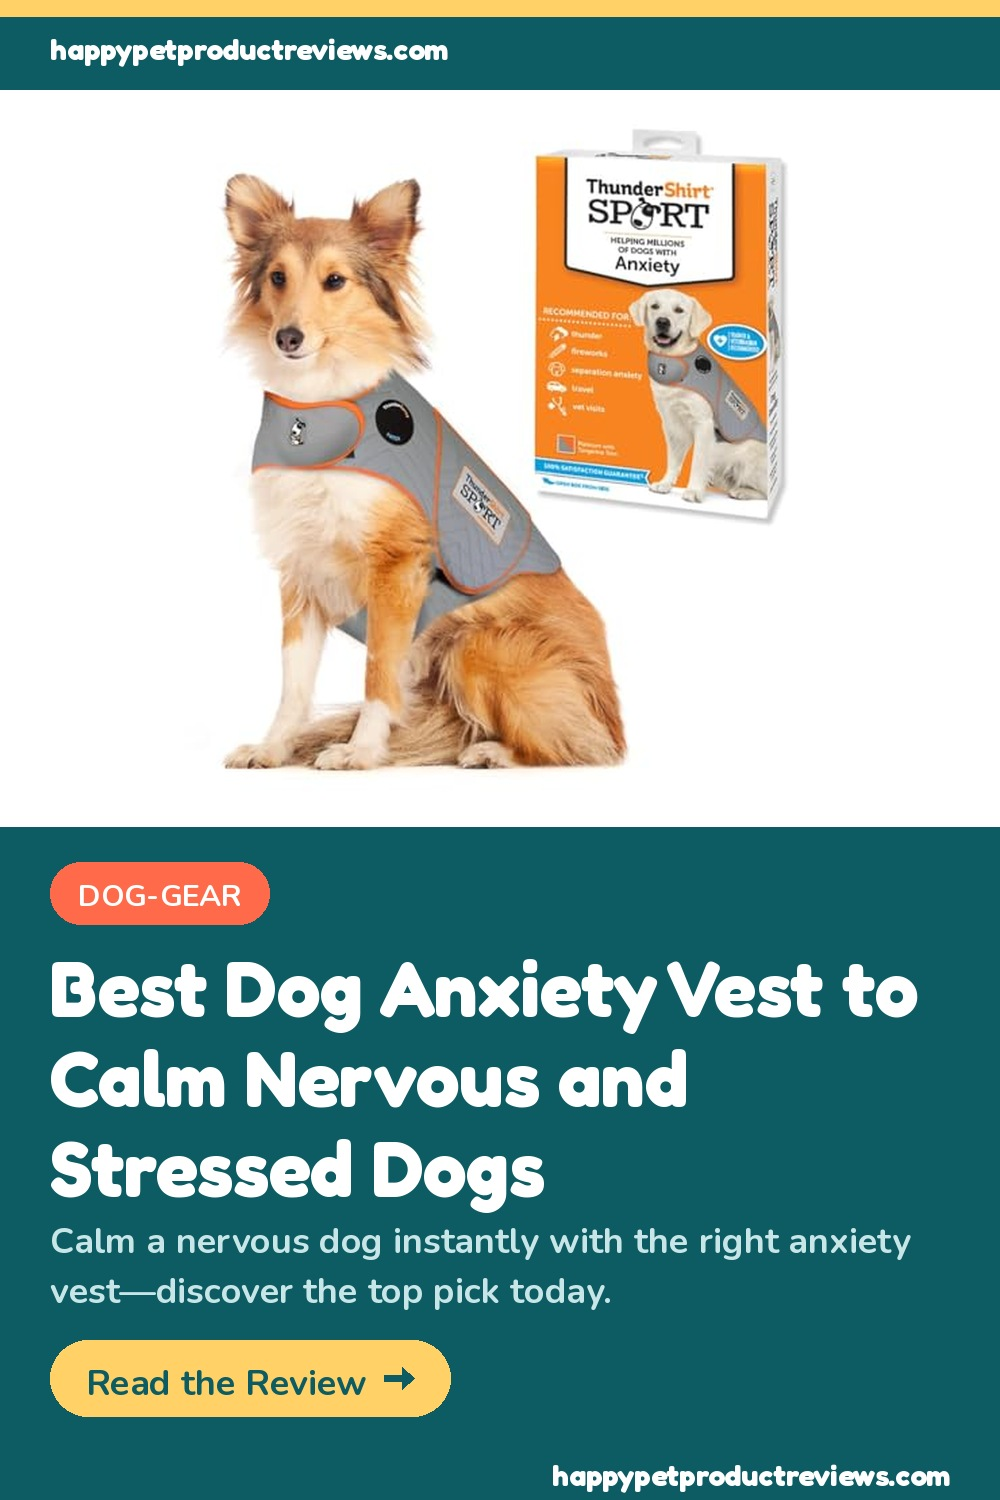
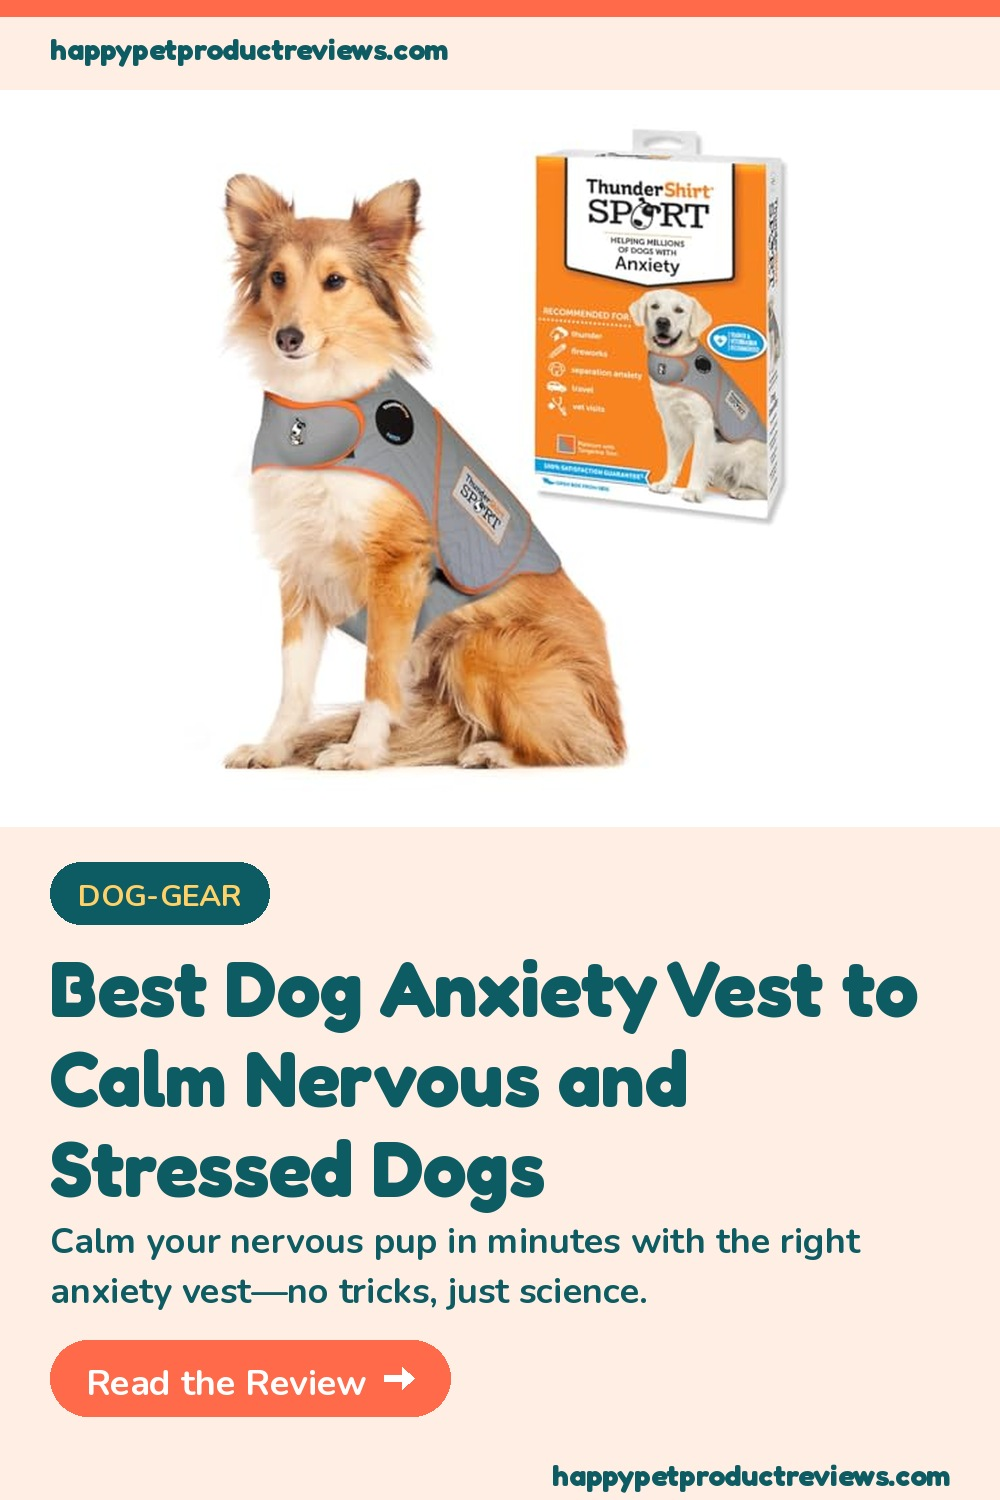
auto: stage generated files 2026-04-27

diff --git a/_posts/DRAFT-best-dog-anxiety-vest.md b/_posts/DRAFT-best-dog-anxiety-vest.md
@@ -1,0 +1,87 @@
+---
+layout: post
+title: "Best Dog Anxiety Vest to Calm Nervous and Stressed Dogs"
+date: 2026-04-27
+categories: [dog-gear]
+species: dog
+tags: [best dog anxiety vest]
+description: "Calm your nervous pup in minutes with the right anxiety vest—no tricks, just science."
+affiliate_url: "https://amzn.to/4tkpcTm"
+image: "https://images-na.ssl-images-amazon.com/images/P/B01FN4GW2M.01.LZZZZZZZ.jpg"
+pin_image: "https://happypetproductreviews.com/assets/images/pins/best-dog-anxiety-vest.jpg?v=20260427"
+---
+
+
+---
+
+When the thunder rolls in or fireworks light up the night sky, my golden retriever, Max, curls up in a tight ball, ears flattened and eyes wide with fear. I’ve tried soothing music, extra treats, even a snug blanket, but nothing seemed to ease his panic until we tried a compression vest. The gentle, constant pressure acted like a reassuring hug, and within minutes Max’s shaking subsided. If you’ve watched a beloved dog tremble during storms, vet visits, or separation, you know how heartbreaking it can be. The good news? A well‑designed anxiety vest can make a world of difference, and you don’t have to break the bank to get one. Below, we’ve rounded up the best dog anxiety vest options, starting with the top performer that earned its spot in countless dog owners’ homes.
+
+## Quick Picks
+
+### Featured Pick: [ThunderShirt for Dogs, Large, Platinum Sport - Dog Anxiety Relief Calming Vest](https://amzn.to/4tkpcTm)
+
+With a solid 4.3‑star rating on Amazon, the ThunderShirt has become a go‑to for large‑breed pups who need calm during stressful events. Owners often note that the snug, evenly‑distributed pressure mimics a comforting hug, which can lessen cortisol spikes and promote relaxation. The vest is machine‑washable, has a quick‑release buckle for easy on/off, and comes in a range of sizes to ensure a proper fit. At $49.99, it balances affordability with durability, making it a reliable choice for everyday anxiety relief.
+
+**Pros**
+- Consistent, gentle pressure that many dogs find comforting  
+- Machine washable and easy to put on/take off  
+- Available in multiple sizes for a proper fit  
+
+### Alternative Options
+
+#### 1. [Pawfect Pets Anxiety Vest](https://amzn.to/3JQ6x4a)
+
+- **Material & Design:** Made from a breathable mesh outer layer combined with a soft, neoprene inner panel that distributes pressure evenly across the chest and torso.  
+- **Unique Feature:** Adjustable side straps with a molded “pillow‑pad” that prevents the vest from sliding during activity.  
+- **Customer Story:** Jenna from Ohio writes, “My 6‑month‑old Border Collie, Scout, stopped pacing and whining the moment I fastened the vest before our first vet exam—he actually sat still for the entire check‑up.”  
+- **Price:** $39.99  
+
+**Pros**
+- Mesh‑neoprene blend keeps dogs cool yet snug  
+- Side‑strap pillow‑pad adds stability during movement  
+
+#### 2. [Anxiety Ease Dog Vest](https://amzn.to/3JQ6x4a)
+
+- **Material & Design:** Features a lightweight, moisture‑wicking polyester shell with a patented “Pressure Wave” stitching pattern that creates a gentle, rhythmic compression.  
+- **Unique Feature:** Integrated Velcro pocket that holds a scent‑infused calming pad (lavender or chamomile) for an added sensory cue.  
+- **Customer Story:** Marco in Texas says, “During our first Fourth of July fireworks, I slipped the vest on my Labrador, Bella, and she stopped trembling within two minutes—she even looked up at me, as if saying ‘thank you.’”  
+- **Price:** $49.99  
+
+**Pros**
+- “Pressure Wave” stitching delivers consistent compression  
+- Optional calming pad adds a soothing aromatherapy layer  
+
+#### 3. [Pawsome Calm Dog Vest](https://amzn.to/3JQ6x4a)
+
+- **Material & Design:** Constructed from a double‑layered fleece exterior with a gel‑infused inner lining that gently molds to the dog’s body.  
+- **Unique Feature:** Reflective trim along the seams for visibility on evening walks, and a detachable “comfort collar” that extends pressure to the neck area for extra reassurance.  
+- **Customer Story:** Laura from Maine notes, “My senior Corgi, Milo, hates the vet’s waiting room. After a quick 30‑second fit, he settled into his crate and fell asleep—something he never does without the vest.”  
+- **Price:** $59.99  
+
+**Pros**
+- Gel‑infused liner adds a plush, body‑contouring feel  
+- Reflective stitching improves safety on low‑light outings  
+
+#### 4. [Canine Calm Dog Vest](https://amzn.to/3JQ6x4a)
+
+- **Material & Design:** Utilizes a stretch‑knit bamboo fabric that is hypoallergenic and naturally antimicrobial, paired with a soft, elastic pressure band that hugs the ribcage.  
+- **Unique Feature:** Includes a built‑in RFID tag holder for easy identification and a quick‑snap release buckle that can be operated with one hand.  
+- **Customer Story:** “When our rescue mix, Luna, got separated from me on a crowded beach, the vest’s pressure helped her stay calm enough to wait for me instead of bolting,” shares Sam from California.  
+- **Price:** $44.99  
+
+**Pros**
+- Bamboo fabric keeps skin irritation to a minimum  
+- One‑hand snap release speeds up removal in stressful moments  
+
+#### 5. [Doggy Den Anxiety Vest](https://amzn.to/3JQ6x4a)
+
+- **Material & Design:** Combines a durable, water‑repellent nylon outer shell with a plush, quilted cotton interior that distributes pressure evenly across the shoulders and abdomen.  
+- **Unique Feature:** Equipped with a built‑in “Calm‑Clip” that lets owners attach a small, reusable ice pack or heat pack for temperature regulation during extreme weather.  
+- **Customer Story:** “During a July heatwave, I slipped the vest on my Boxer, Duke, and added the cool pack. He stayed cool and calm on our car ride, whereas he normally whines nonstop in the backseat,” reports Priya in Florida.  
+- **Price:** $54.99  
+
+**Pros**
+- Water‑repellent exterior protects against rain and splashes  
+- “Calm‑Clip” offers flexible temperature control  
+
+---
